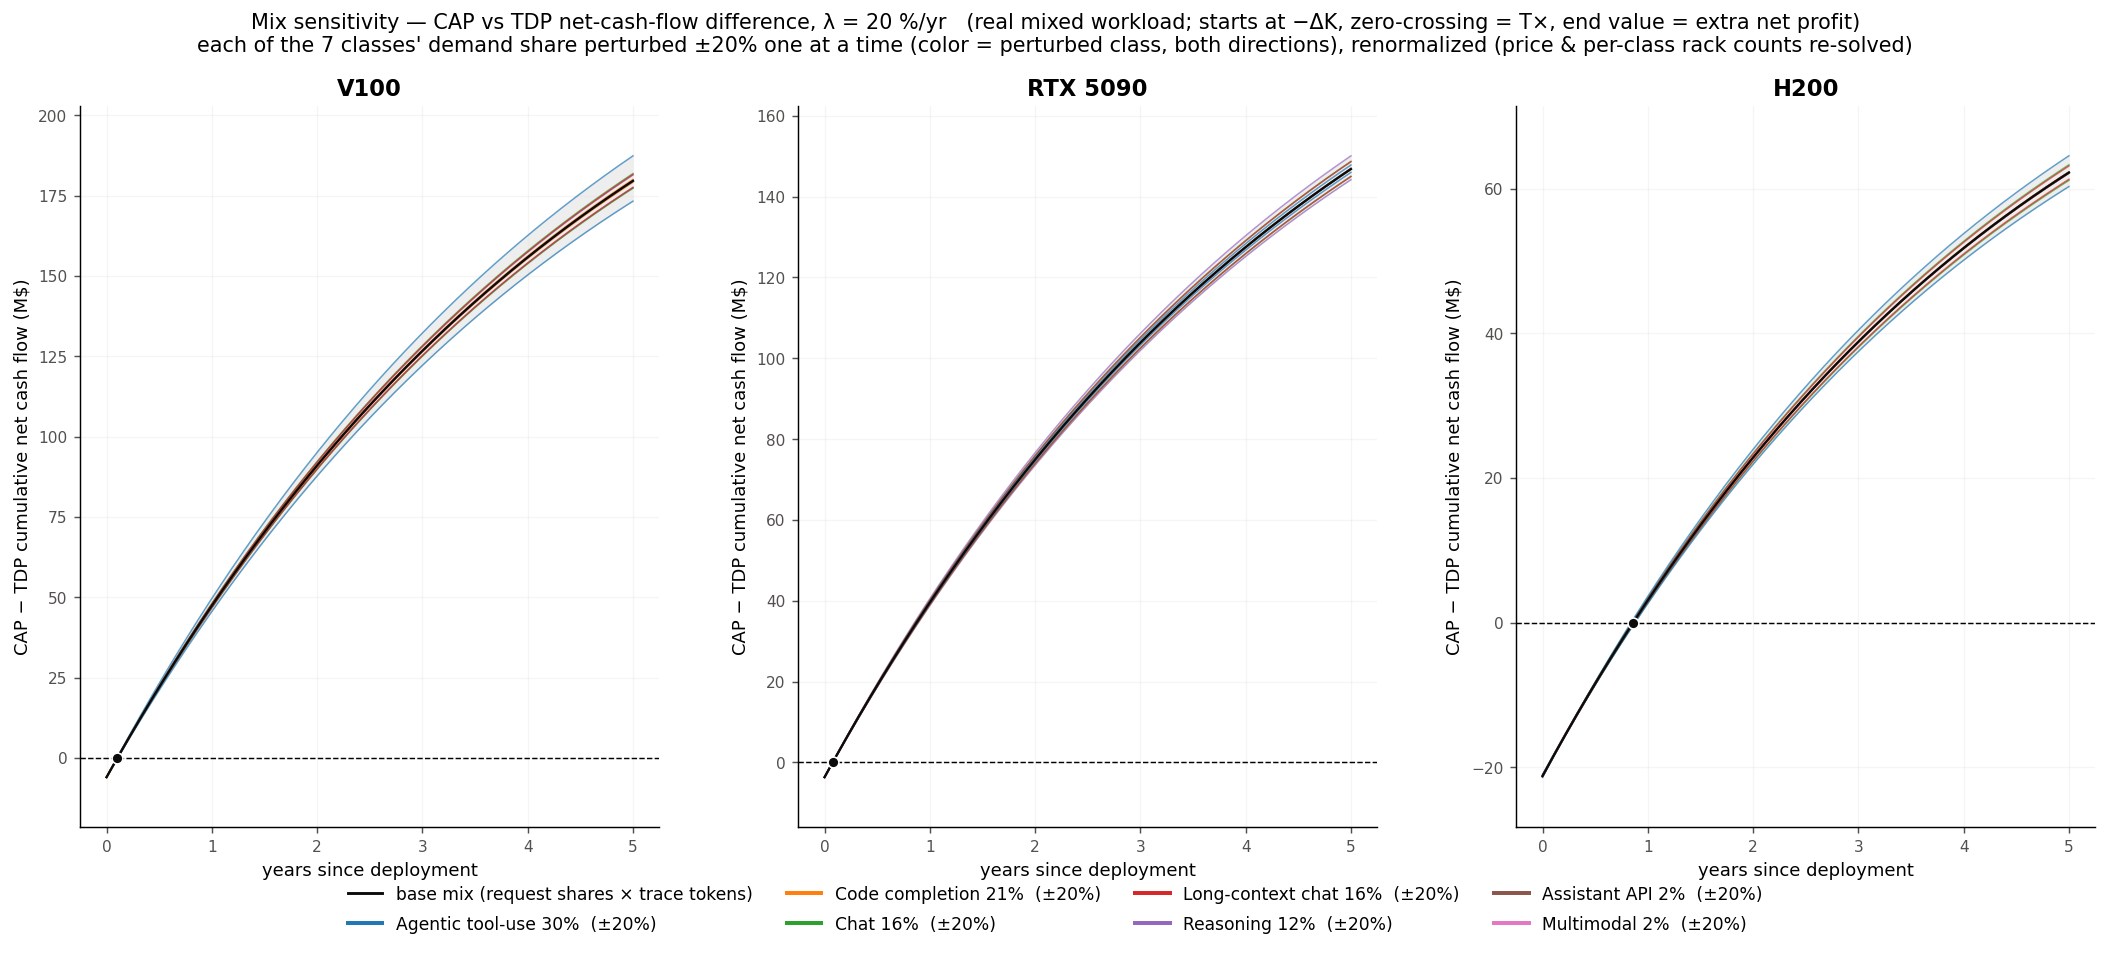
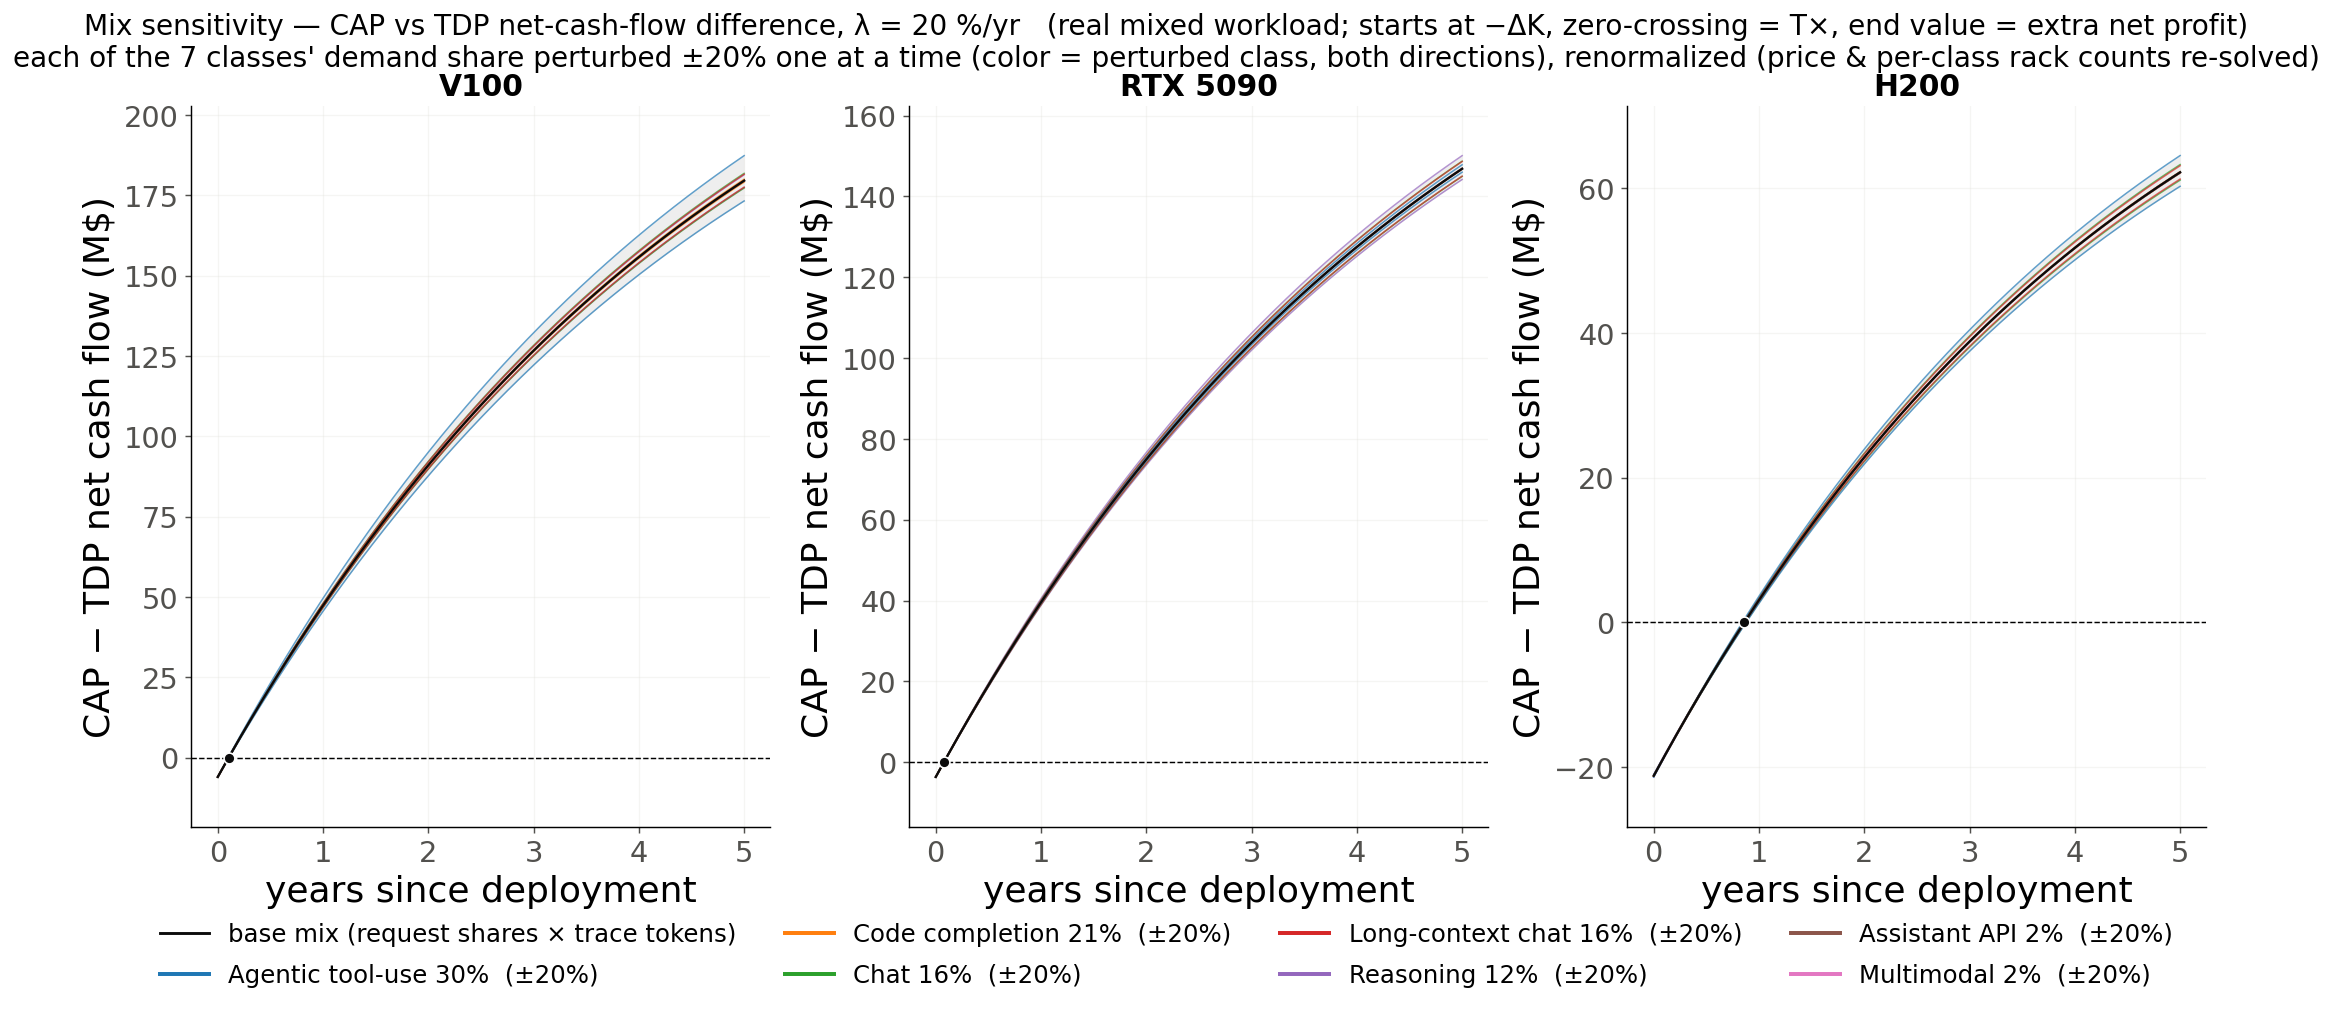
upsize font

diff --git a/workload_analysis/plot_profit_model.py b/workload_analysis/plot_profit_model.py
@@ -212,8 +212,10 @@ def fig_group1(dev_cl):
             if tx is not None:
                 yx = float(np.interp(tx, t, yc))
                 ax.plot(tx, yx, "o", color=GOLD, ms=8, mec="white", mew=0.9, zorder=6)
-                ax.annotate(f"T× {fmt_pb(tx)}", (tx, yx), textcoords="offset points",
-                            xytext=(8, -2), fontsize=8.6, color=GOLD, weight="bold", va="top")
+                # curves rise left-to-right, so the upper-left corner never holds a curve —
+                # both readouts live there instead of hugging the lines they describe
+                ax.annotate(f"T× {fmt_pb(tx)}", (0.05, 0.83), xycoords="axes fraction",
+                            fontsize=13, color=GOLD, weight="bold", va="top")
             phi_c = float(cashflow(cl["CAP"], lam, N_YR)); phi_t = float(cashflow(cl["TDP"], lam, N_YR))
             g = phi_c / phi_t
             if phi_c > 0 and phi_t > 0:                        # ratio only meaningful when both profit
@@ -221,41 +223,42 @@ def fig_group1(dev_cl):
             else:                                              # unprofitable: show signed extra, capping worse
                 gtxt = f"CAP {fmt_m(phi_c-phi_t)} vs TDP" + ("\n(both lose)" if phi_t < 0 else "")
                 gcol = RED
-            ax.annotate(gtxt, (t[-1], (yc[-1] + yt[-1]) / 2), textcoords="offset points",
-                        xytext=(-6, 0), ha="right", fontsize=8.8, color=gcol, weight="bold")
+            ax.annotate(gtxt, (0.05, 0.95), xycoords="axes fraction",
+                        fontsize=13.5, color=gcol, weight="bold", va="top")
             if i == 0:
                 ax.set_title(f"λ = {lam*100:.0f} %/yr" + ("  (no decay)" if lam == 0 else ""),
-                             fontsize=11.5, weight="bold")
+                             fontsize=15.5, weight="bold")
             ax.grid(alpha=.35, color=GRID, lw=0.7)
-            ax.tick_params(labelsize=8.5, colors=MUTE)
+            ax.tick_params(labelsize=16, colors=MUTE)
             [s.set_visible(False) for s in (ax.spines["top"], ax.spines["right"])]
             if i == len(DEVS) - 1:
-                ax.set_xlabel("years since deployment", fontsize=9.5, color=MUTE)
+                ax.set_xlabel("years since deployment", fontsize=20, color=MUTE)
             rows.append(dict(view="decay", device=dev, lambda_pct=round(lam * 100),
                              cap_K_usd=round(cl["CAP"]["K"]), tdp_K_usd=round(cl["TDP"]["K"]),
                              cap_Phi_n_usd=round(float(cashflow(cl["CAP"], lam, N_YR))),
                              tdp_Phi_n_usd=round(float(cashflow(cl["TDP"], lam, N_YR))),
                              T_cross_yr=round(tx, 3) if tx is not None else "",
                              G_end_ratio=round(g, 3)))
-        axes[i, 0].set_ylabel(f"{dev}\ncumulative net cash flow (M$)", fontsize=10.5, weight="bold")
-    axes[0, 0].legend(loc="lower right", fontsize=9, frameon=False)
+        axes[i, 0].set_ylabel(f"{dev}", fontsize=21, weight="bold")
+    axes[0, 0].legend(loc="lower right", fontsize=13, frameon=False)
     fig.suptitle(
         "Cumulative net cash flow — POWER CAP vs TDP, mixed workload, "
         f"{CLUSTER_MW:.0f} MW cluster over {N_YR:.0f} yr   (rows = device · cols = token-price decay λ)\n"
         "CF(t) = revenue(price ↓ at λ) − electricity − maintenance − upfront capex; starts at −K, "
         "ends at accrual profit Φ(n).  ● T× = crossover = extra-capex payback · G = Φ_CAP(n)/Φ_TDP(n)",
-        fontsize=12)
+        fontsize=16)
     fig.text(0.5, 0.008,
              f"mixed workload (per-class racks summed, N_j ∝ w_j/X_j; w = est. request shares × trace tokens/req, 7 II-C classes)  ·  "
-             f"n={N_YR:.0f} yr S=0 · e=\\${ELEC:.2f}/kWh × PUE {PUE} · μ={MU:.0%} · "
+             f"n={N_YR:.0f} yr S=0 · e=\\${ELEC:.2f}/kWh × PUE {PUE} · μ={MU:.0%}\n"
              f"per-class 2026 tier price × {PRICE_SCALE:.3g} small-model haircut "
              f"(reasoning/agentic \\${5*PRICE_SCALE:.2f}/\\${25*PRICE_SCALE:.2f} · long-ctx \\${3*PRICE_SCALE:.2f}/\\${15*PRICE_SCALE:.2f} · "
              f"chat/multimodal \\${2*PRICE_SCALE:.2f}/\\${10*PRICE_SCALE:.2f} · API/completion \\${1*PRICE_SCALE:.2f}/\\${5*PRICE_SCALE:.2f} per Mtok; "
              f"blended \\${dev_cl['V100']['CAP']['pi']*1e6:.2f}) · "
              "c_g " + "/".join(f"\\${C_G[d]:,.0f} {d}" for d in DEVS)
              + "  ·  100% util, SLO not priced  ·  ⚠ RTX 5090 row = MOCK data",
-             ha="center", fontsize=7.5, color=MUTE)
-    fig.tight_layout(rect=(0, 0.045, 1, 0.94))
+             ha="center", fontsize=11.5, color=MUTE)
+    fig.supylabel("cumulative net cash flow (M$)", fontsize=20)
+    fig.tight_layout(rect=(0.025, 0.045, 1, 0.94))
     out = os.path.join(HERE, "fig_profit_model.png")
     fig.savefig(out, dpi=130, bbox_inches="tight")
     plt.close(fig)
@@ -317,11 +320,11 @@ def fig_group2(classes_by_dev, w0):
         # clamped to the band (plus margin) so the curve fan fills the panel instead of huddling
         y_pad = (hi[-1] - min(0.0, float(-dK / 1e6))) * 0.08
         ax.set_ylim(min(float(-dK / 1e6), float(lo.min())) - y_pad, float(hi.max()) + y_pad)
-        ax.set_title(f"{dev}", fontsize=12.5, weight="bold")
-        ax.set_xlabel("years since deployment", fontsize=10)
-        ax.set_ylabel("CAP − TDP cumulative net cash flow (M$)", fontsize=10)
+        ax.set_title(f"{dev}", fontsize=16.5, weight="bold")
+        ax.set_xlabel("years since deployment", fontsize=20)
+        ax.set_ylabel("CAP − TDP net cash flow (M$)", fontsize=20)
         ax.grid(alpha=.3, color=GRID, lw=0.7)
-        ax.tick_params(labelsize=8.5, colors=MUTE)
+        ax.tick_params(labelsize=16, colors=MUTE)
         [s.set_visible(False) for s in (ax.spines["top"], ax.spines["right"])]
 
     # shared legend: bold real-mix line + one swatch per perturbed class (share % in the label)
@@ -330,16 +333,16 @@ def fig_group2(classes_by_dev, w0):
     handles += [Line2D([], [], color=ccol[k], lw=2.2,
                        label=f"{NAME[k].split(' (')[0]} {shr(k)}  (±{MIX_SHIFT*100:.0f}%)")
                 for k in order]
-    fig.legend(handles=handles, loc="lower center", ncol=4, fontsize=9.5, frameon=False,
+    fig.legend(handles=handles, loc="lower center", ncol=4, fontsize=13.5, frameon=False,
                columnspacing=2.0, handletextpad=0.8, labelspacing=0.7,
-               bbox_to_anchor=(0.5, -0.02))
+               bbox_to_anchor=(0.5, -0.085))
     fig.suptitle(
         f"Mix sensitivity — CAP vs TDP net-cash-flow difference, λ = {MID_DECAY*100:.0f} %/yr   "
         f"(real mixed workload; starts at −ΔK, zero-crossing = T×, end value = extra net profit)\n"
         f"each of the {len(order)} classes' demand share perturbed ±{MIX_SHIFT*100:.0f}% one at a time "
         "(color = perturbed class, both directions), renormalized (price & per-class rack counts re-solved)",
-        fontsize=11.5)
-    fig.tight_layout(rect=(0, 0.10, 1, 0.9))
+        fontsize=15.5)
+    fig.tight_layout(rect=(0, 0.15, 1, 0.88))
     out = os.path.join(HERE, "fig_profit_mix.png")
     fig.savefig(out, dpi=130, bbox_inches="tight")
     plt.close(fig)
